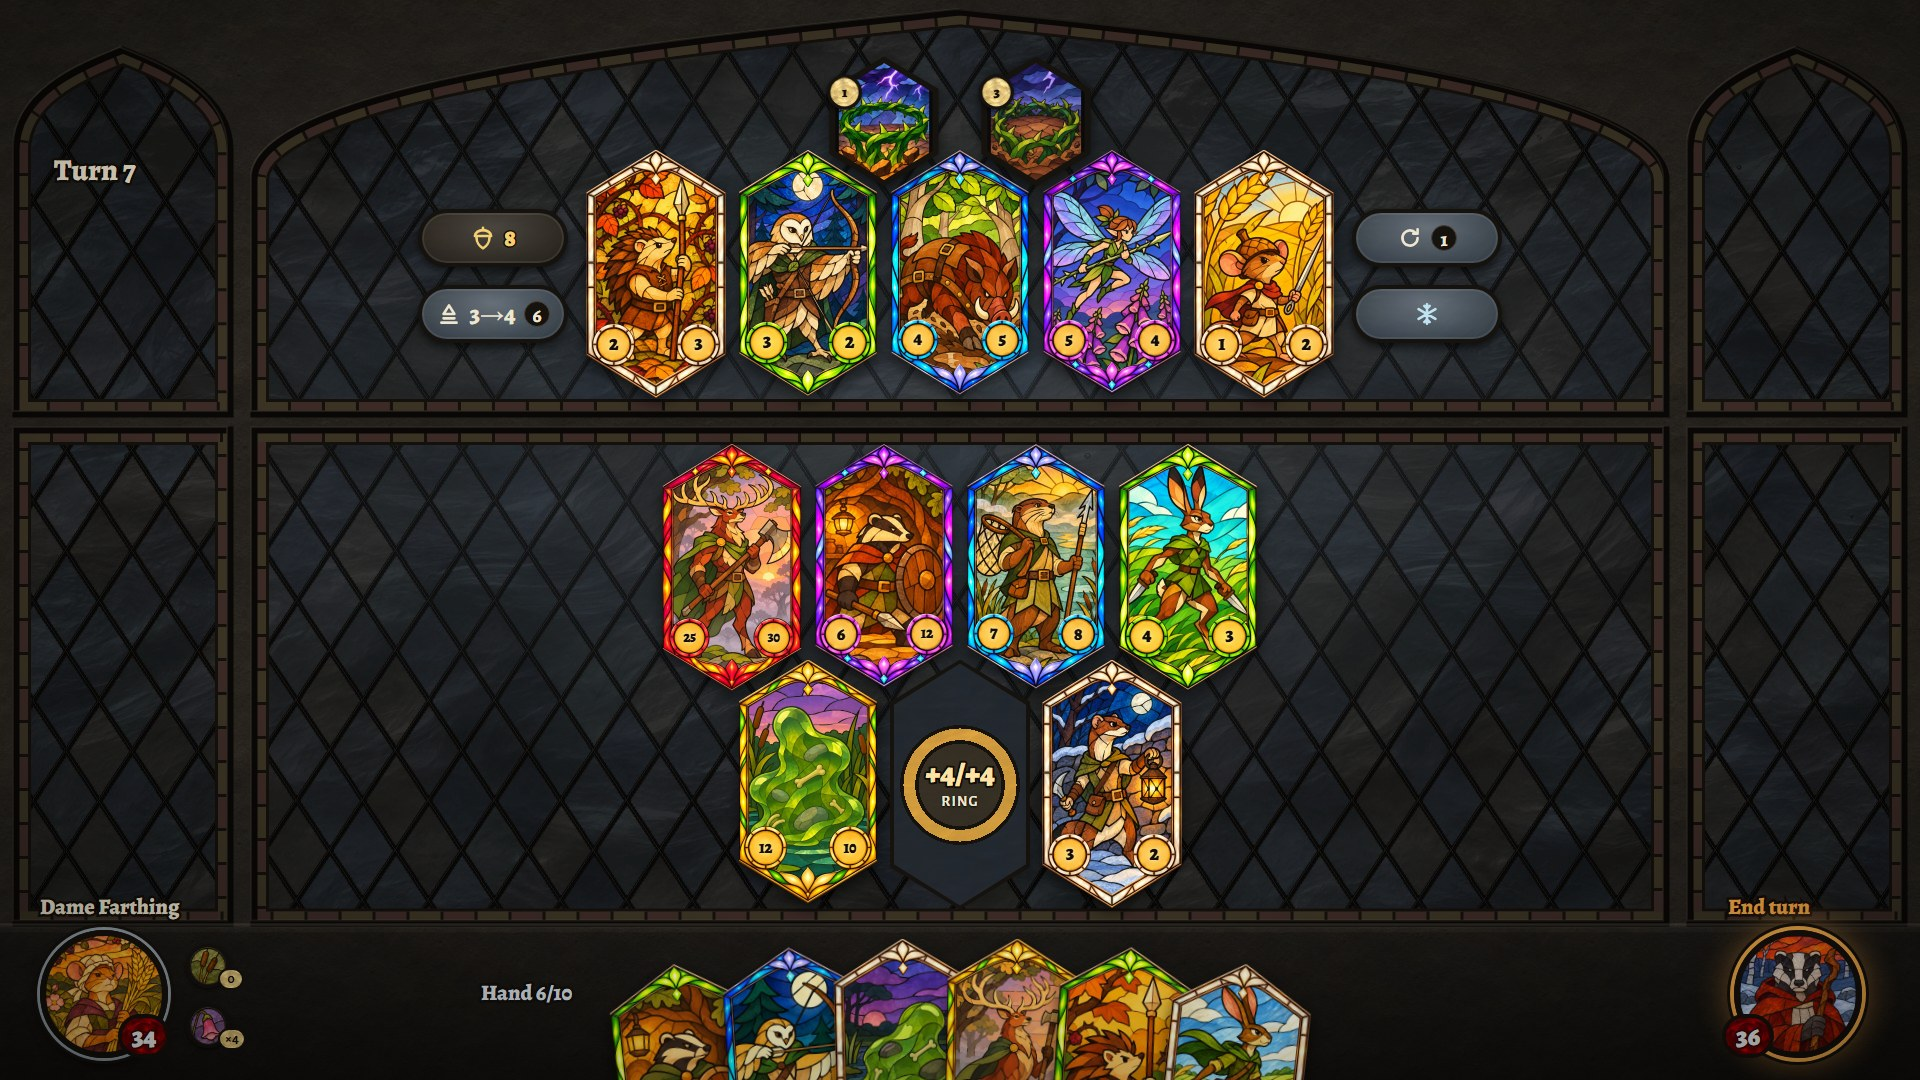
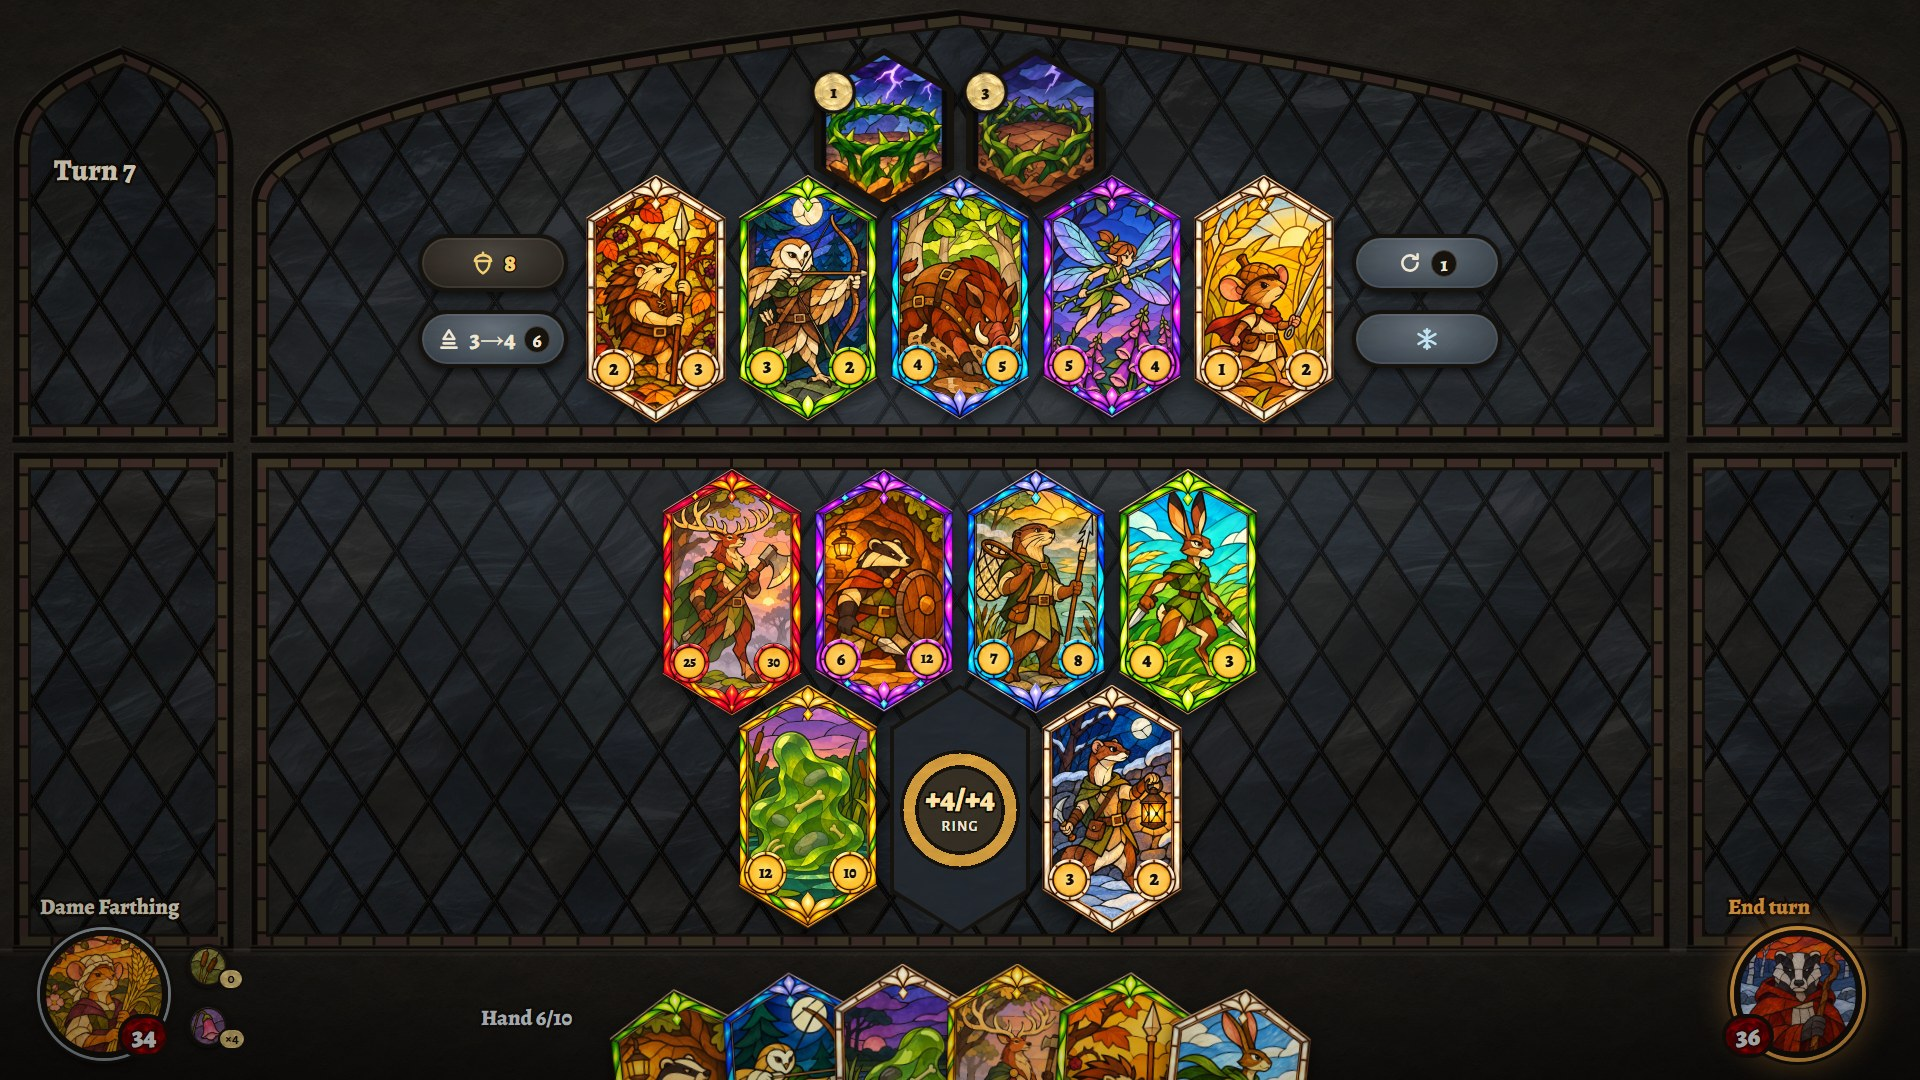
Glass mock-ups: spells are regular hexagons exactly the units' width (owner, 15 Nov)
The owner: "they should inherit the width from the normal cards, but the height of a
regular hexagon ... I want a regular hexagon of the same width, so it tiles is the exact same."

diff --git a/docs/design/art-direction/mockups/recruit.html b/docs/design/art-direction/mockups/recruit.html
@@ -137,8 +137,14 @@ const BYID = Object.fromEntries([...SHOP, ...BOARD.filter(Boolean), ...HAND].map
 // ---- geometry: everything follows the card height H ----
 function geom(H, above) {
   const W = H * 0.56, g = 12, sg = 28;            // gap between cards; extra gap before in-line spells
-  const SH = 0.52 * H, SW = 0.84 * SH;             // spells above the shop: almost regular hexes (owner, 15 Nov)
-  const handShow = (above ? 0.57 : 0.7) * H;      // how much of a hand card stands above the screen's edge
+  const SW = W, SH = W / (Math.sqrt(3) / 2);       // spells above the shop: regular hexes the units' width (owner, 15 Nov)
+  // how much of a hand card stands above the screen's edge; with spells above, it gives way so the spell row
+  // stays clear of the arch (spell tops at y 48 or lower)
+  let handShow = 0.7 * H;
+  if (above) {
+    const top = 1080 - handShow - 14 - 14 - (1.83 * H + 8) - 14 - 16 - 14 - H + 0.17 * H - 8 - SH;
+    if (top < 48) handShow = Math.max(0.4 * H, handShow - (48 - top));
+  }
   const handTop = 1080 - handShow, sill = handTop - 14;
   const boardH = H + 0.83 * H + 8;                 // the back row nests 0.17 H into the front row
   const boardBot = sill - 14, boardTop = boardBot - boardH;
@@ -198,7 +204,7 @@ function render() {
     // each spell sits over the gap either side of the middle unit, its lower point in the notch between two units
     SHOP.slice(0, 5).forEach(c => { put(c, x, G.shopTop); x += G.W + G.g; });
     SHOP.slice(5).forEach((c, k) => {
-      const gx = G.shopL + (k + 2) * (G.W + G.g) - G.g / 2, bottom = G.shopTop + 0.17 * H - 6;
+      const gx = G.shopL + (k + 2) * (G.W + G.g) - G.g / 2, bottom = G.shopTop + 0.17 * H - 8; // as the board's back row, mirrored
       const el = Cards.make({ ...c, spell: "hex", h: G.SH }); place(el, gx - G.SW / 2, bottom - G.SH); st.append(el); cards.push(el);
     });
   } else SHOP.forEach((c, i) => { if (i === 5) x += G.sg; put(c, x, G.shopTop); x += G.W + G.g; });
@@ -262,7 +268,7 @@ function render() {
     const c = BYID[el.dataset.id]; if (!c) return;
     const big = 1.6 * H, bigW = big * 0.56;
     tip.innerHTML = "";
-    tip.append(Cards.make({ ...c, h: c.spell && G.above ? big * 0.6 : big, spell: c.spell ? (G.above ? "hex" : true) : false }));
+    tip.append(Cards.make({ ...c, h: c.spell && G.above ? big * 0.56 / (Math.sqrt(3) / 2) : big, spell: c.spell ? (G.above ? "hex" : true) : false }));
     tip.append(html(`<div class="txt"><div class="n">${c.name}</div><div class="m">${c.spell ? "Spell · costs " + c.cost : "Tier " + c.tier + " · unit"}</div><div class="r">Rules text goes here, in one or two short lines.</div></div>`));
     let tx = mx + 28, ty = my - big / 2;
     if (tx + bigW + 320 > 1900) tx = mx - 28 - bigW - 316;

diff --git a/docs/design/art-direction/mockups/card.css b/docs/design/art-direction/mockups/card.css
@@ -12,7 +12,7 @@
 .card .cost{position:absolute;left:8%;top:21%;width:26%;aspect-ratio:1;transform:translateY(-50%);border-radius:50%;
   display:grid;place-items:center;font-family:Alegreya,Georgia,serif;font-weight:900;color:#150e08;
   background:url(assets/ui/rd-cream.png) center/112% auto,#e8dcc0;border:3px solid #16120e;box-shadow:0 2px 4px rgba(0,0,0,.6)}
-/* STAND-IN spell as an almost regular hex (owner's idea, 15 Nov): the same lead outline and cost disc */
-.card.hexsp .art{inset:5% 5.5%;background-size:cover;background-position:center 45%}
+/* STAND-IN spell as a regular hex the units' width (owner, 15 Nov): the same lead outline and cost disc */
+.card.hexsp .art{inset:4.5% 5.2%;background-size:cover;background-position:center 45%}
 .card.hexsp .spell-lead{clip-path:polygon(50% 0%,100% 25%,100% 75%,50% 100%,0% 75%,0% 25%)}
 .card.hexsp .cost{left:-2%;top:27%;width:32%}

diff --git a/docs/design/art-direction/mockups/card.js b/docs/design/art-direction/mockups/card.js
@@ -34,9 +34,10 @@
     return el;
   }
 
-  // spell: "tall" (the unit's 0.56 hex) or "hex" (an almost regular hex, 0.84 wide to 1 tall; owner's idea, 15 Nov)
+  // spell: true (the unit's tall 0.56 hex) or "hex": a regular hexagon, width = height x sqrt(3)/2 (owner, 15 Nov:
+// "inherit the width from the normal cards, but the height of a regular hexagon"). Pass h = unit width / (sqrt(3)/2).
   function make({ tier, art, attack, health, h, spell = false, cost = null, id = "" }) {
-    const w = spell === "hex" ? h * 0.84 : h * U.w / U.h;
+    const w = spell === "hex" ? h * Math.sqrt(3) / 2 : h * U.w / U.h;
     const el = document.createElement("div");
     el.className = "card" + (spell ? " spell" + (spell === "hex" ? " hexsp" : "") : "");
     el.dataset.tier = tier;

diff --git a/docs/workstreams/glass-mockups.md b/docs/workstreams/glass-mockups.md
@@ -55,7 +55,9 @@ Not on the card, because the frames don't have them and the owner asked for Atta
 2. **Recruit screen.** The first mock-up's layout with the new cards: the shop's 5 units and 2 spells (rulebook 6.1.1, settled 13 Nov), with gold, tier up, refresh and freeze in the shop zone; the board 4 and 3; the hand; the hero and End turn; Turn. Shown at two card sizes (see below), with the leaderboard on and off, and one card hovered. A card sheet with every tier and one- and two-digit numbers goes alongside, as a check on the number fit. **This is the first mock-up shown to the owner.**
 3. **The owner's refinements.** Whatever the owner asks for after seeing step 2.
 
-   **Spells above the shop (owner, 15 Nov 2026), tried:** "I think if we have spells in the shop, they'll take up a second row above, and maybe they won't be, maybe they'll be smaller hexes, like almost regular hexagons rather than the tall hexes. That way we can have the shop be centered. And maybe we just do, two spells in between the, on either side of the third card, basically, but above." Built as a switch, with the first layout kept beside it for comparison. The spells are about half a unit's height, 0.84 wide to 1 tall; their lower slopes match the units' roofs, so each sits in the notch between two units. To make room the hand shows a little less (57% of a card instead of 70%).
+   **Spells above the shop (owner, 15 Nov 2026), tried:** "I think if we have spells in the shop, they'll take up a second row above, and maybe they won't be, maybe they'll be smaller hexes, like almost regular hexagons rather than the tall hexes. That way we can have the shop be centered. And maybe we just do, two spells in between the, on either side of the third card, basically, but above." Built as a switch, with the first layout kept beside it for comparison.
+
+   **Then, on their size (owner, 15 Nov 2026):** "The card size of them should be exactly the same as the width, but they should be regular. So they should inherit the width from the normal cards, but the height of a regular hexagon. ... I want a regular hexagon of the same width, so it tiles is the exact same." Done: each spell is a regular hexagon exactly a unit's width (height = width / (√3/2), about 0.65 of a unit's height), sitting in the notch between two units with the same gap as the board's back row. A regular hexagon's sides slope at 30°, the units' roofs at 31.3°, so the gap narrows very slightly towards the point. To fit the taller spell row the hand gives way: at 250 px it shows a little under half a card.
 
 Before each step is kept: screenshots of every view, and a scope review by a fresh agent.
 

diff --git a/docs/design/art-direction/mockups/README.md b/docs/design/art-direction/mockups/README.md
@@ -8,7 +8,7 @@ Open `recruit.html` or `cards.html` straight from disk in a browser. The switche
 
 | Shot | What it shows |
 |---|---|
-| [recruit-250-spells-above.jpg](shots/recruit-250-spells-above.jpg) | Spells in a row above the shop as smaller, almost regular hexes, each over the gap beside the middle unit; the 5 units centred (owner's idea, 15 Nov). Cards 250 px tall |
+| [recruit-250-spells-above.jpg](shots/recruit-250-spells-above.jpg) | Spells in a row above the shop as regular hexes the units' width, each over the gap beside the middle unit; the 5 units centred (owner, 15 Nov). Cards 250 px tall |
 | [recruit-212-spells-above.jpg](shots/recruit-212-spells-above.jpg) | The same with cards 212 px tall |
 | [recruit-250-spells-above-hover.jpg](shots/recruit-250-spells-above-hover.jpg) | Spells above, a spell hovered, leaderboard shown |
 | [recruit-212.jpg](shots/recruit-212.jpg) | Spells in the shop row (the first layout), cards 212 px tall (the first mock-up's card height) |
@@ -37,7 +37,7 @@ Screenshots: `tools/art/mockups/shot.sh <page> "<query>" <out.png> [height]` (he
 
 ## Stand-ins
 
-- **Spells:** no spell frame exists yet. The two shop spells are the recipe's spell picture in a plain lead outline with a cost disc, in the unit's tall shape or, above the shop, an almost regular hex (0.84 wide to 1 tall, about half a unit's height).
+- **Spells:** no spell frame exists yet. The two shop spells are the recipe's spell picture in a plain lead outline with a cost disc, in the unit's tall shape or, above the shop, a regular hexagon exactly the units' width.
 - **Names, numbers and hover text:** placeholders. The art is the art session's test set (12 subjects, two runs each, from `window-art-test/margin-8` on the Optiplex), not decided units.
 - **The window, stone, buttons, portraits, empty slot, Ring slot, the hero's two chips and the fanned hand** are the first glass mock-up's, with the window redrawn to fit the new card sizes. The hand count reads /10, the rulebook's hand limit (7.1.1); the first mock-up said /7.
 
